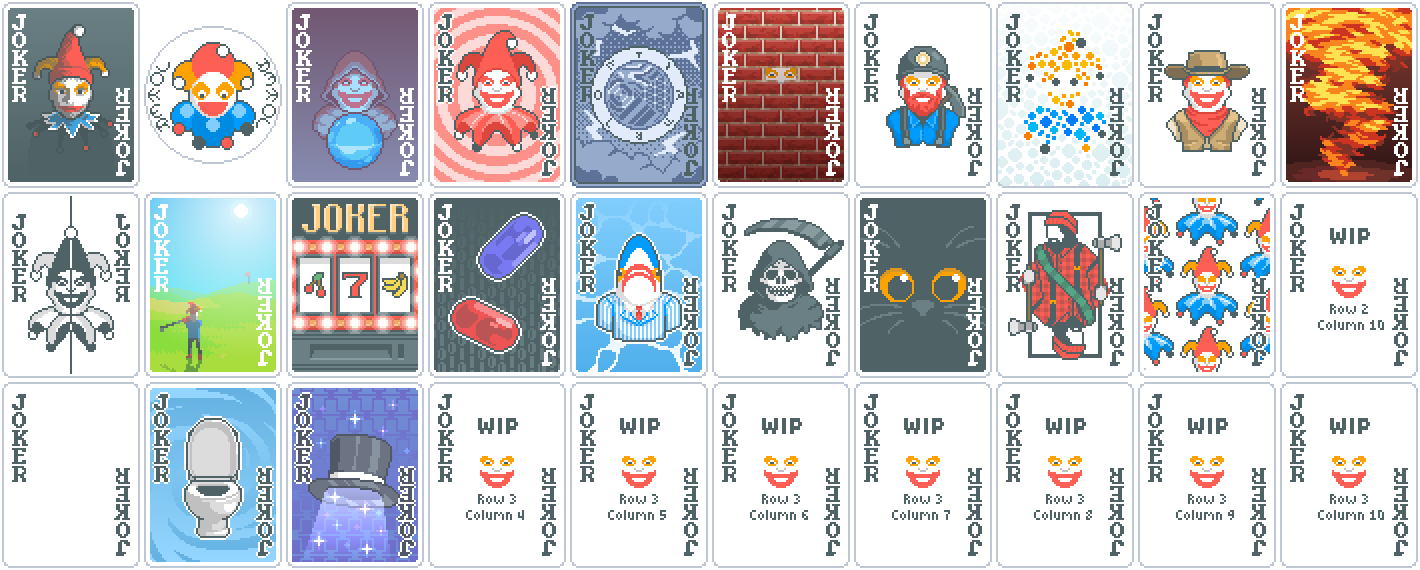
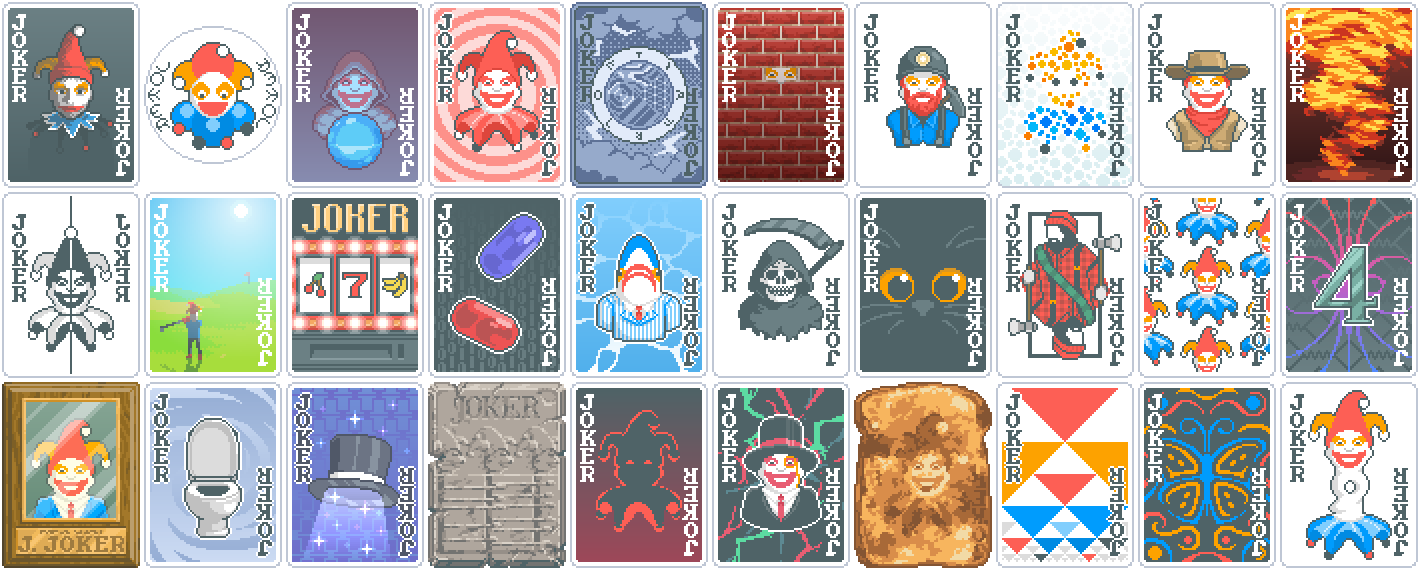
v1.0.0: full release. art for all jokers and bug fixes

Changed region(s): [[0.2789, 0.6561, 0.9915, 1.0], [0.0, 0.6561, 0.2169, 1.0], [0.8986, 0.3281, 1.0, 0.6561]]

diff --git a/README.md b/README.md
@@ -1,9 +1,12 @@
 # Milatro Balatro Mod
 A silly little balatro mod. Currently has 30 jokers.
 
+# Jokers
+You can find what all the Jokers do [here](https://milankapitein.github.io/index.html)
+
 # How to Install
 - Step 1: Install [Steamodded](https://github.com/Steamodded/smods/wiki)
-- Step 2: Download or clone this repository
+- Step 2: Download the latest release from the Release category.
 - Step 3: Put the ``milatro`` folder into your mods folder. Make sure the repository looks like the following
 ```
 -- Mods
@@ -20,4 +23,6 @@ For any issues with the mod, please let me know by opening an issue or reaching 
 The amazing art was made by [Emilia](https://bsky.app/profile/emiliavi.bsky.social)
 
 Additional thanks goes out to [Emma](https://bsky.app/profile/emmakyu.bsky.social) for helping with the code
+
+Thanks to notmario for the [website template](https://github.com/notmario/balatrowebsitetemplate)
 
